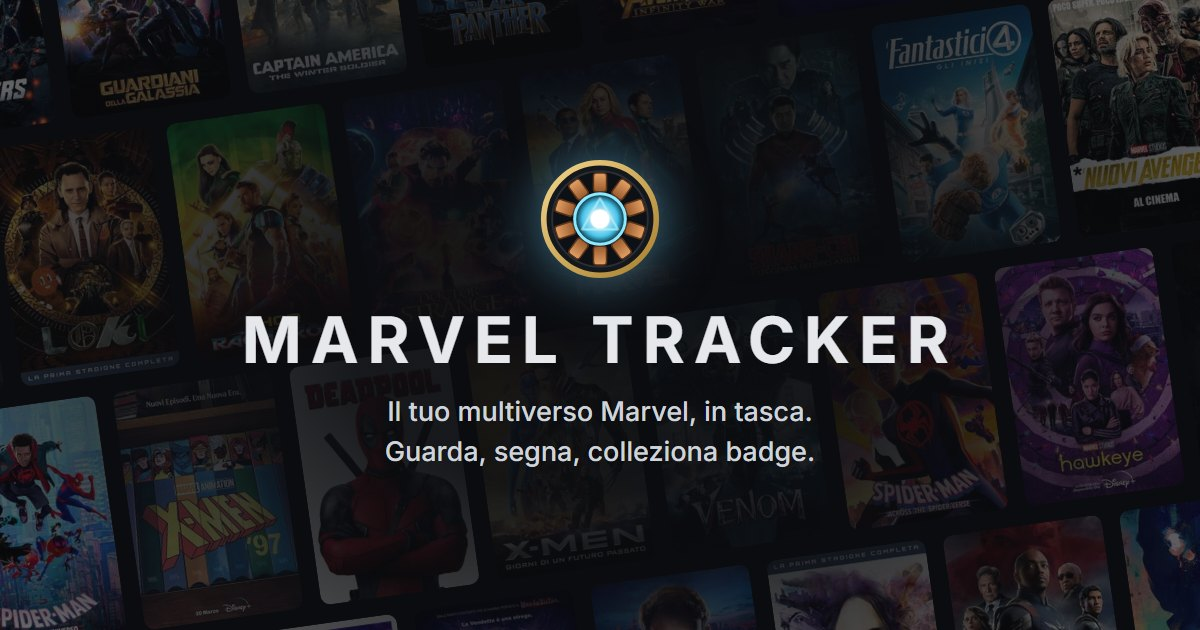
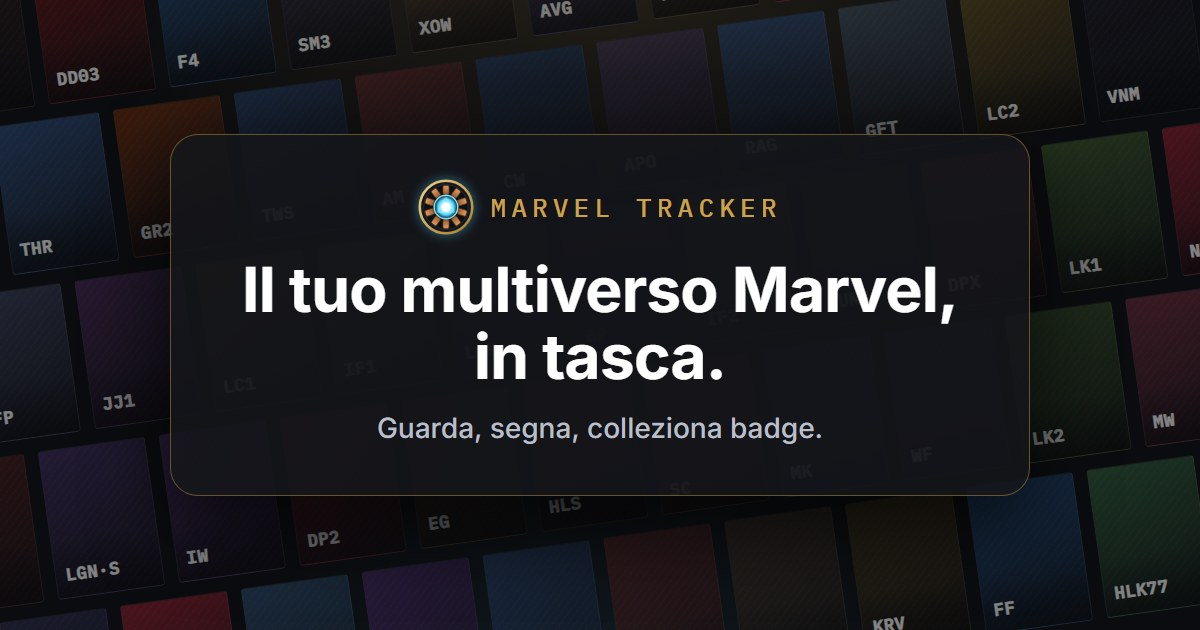
Anteprima del link senza locandine TMDB; Privacy: Resend e Cloudflare

diff --git a/src/components/Legal.tsx b/src/components/Legal.tsx
@@ -80,7 +80,7 @@ export function Privacy() {
           </ul>
 
           <h2>Dove sono i dati</h2>
-          <p>Account e database sono ospitati da <b>Supabase</b> (supabase.com), che li tratta per nostro conto. Il sito è pubblicato su <b>GitHub Pages</b>, che come ogni server registra l'indirizzo IP di chi visita. I caratteri del sito sono inclusi nell'app (il browser non contatta Google). Le <b>locandine</b> si caricano dal server di <b>TMDB</b> (themoviedb.org): come ogni sito, TMDB vede l'indirizzo IP di chi le scarica, ma non riceve nessun altro dato su di te.</p>
+          <p>Account e database sono ospitati da <b>Supabase</b> (supabase.com), che li tratta per nostro conto. Le email dell'account (conferma e nuova password) partono tramite <b>Resend</b> (resend.com, server in Irlanda), che riceve solo il tuo indirizzo email per consegnarle. Il sito è pubblicato su <b>GitHub Pages</b>, che come ogni server registra l'indirizzo IP di chi visita. Il dominio è gestito da <b>Cloudflare</b>, che inoltra anche i messaggi scritti all'indirizzo di contatto. I caratteri del sito sono inclusi nell'app (il browser non contatta Google). Le <b>locandine</b> si caricano dal server di <b>TMDB</b> (themoviedb.org): come ogni sito, TMDB vede l'indirizzo IP di chi le scarica, ma non riceve nessun altro dato su di te.</p>
 
           <h2>Cookie e memoria del browser</h2>
           <p>Non usiamo cookie di profilazione. Il browser conserva solo dati <b>tecnici</b> necessari: la sessione di accesso, una copia dei tuoi progressi (per usare l'app anche con una connessione lenta), la lingua scelta e, se hai aperto un link di invito, il @tag di chi ti ha invitato. Per questo non serve un banner dei cookie.</p>
@@ -131,7 +131,7 @@ export function Privacy() {
           </ul>
 
           <h2>Where the data is</h2>
-          <p>Accounts and the database are hosted by <b>Supabase</b> (supabase.com), which processes them on our behalf. The site is published on <b>GitHub Pages</b>, which, like any server, logs visitors' IP addresses. The site's fonts are bundled with the app (your browser doesn't contact Google). <b>Posters</b> load from the <b>TMDB</b> server (themoviedb.org): like any website, TMDB sees the IP address of whoever downloads them, but receives no other data about you.</p>
+          <p>Accounts and the database are hosted by <b>Supabase</b> (supabase.com), which processes them on our behalf. Account emails (confirmation and new password) are sent through <b>Resend</b> (resend.com, servers in Ireland), which only receives your email address to deliver them. The site is published on <b>GitHub Pages</b>, which, like any server, logs visitors' IP addresses. The domain is managed by <b>Cloudflare</b>, which also forwards messages sent to the contact address. The site's fonts are bundled with the app (your browser doesn't contact Google). <b>Posters</b> load from the <b>TMDB</b> server (themoviedb.org): like any website, TMDB sees the IP address of whoever downloads them, but receives no other data about you.</p>
 
           <h2>Cookies and browser storage</h2>
           <p>We don't use profiling cookies. Your browser only keeps <b>technical</b> data that's needed: the login session, a copy of your progress (so the app works on slow connections), your language and, if you opened an invite link, the @tag of who invited you. That's why there's no cookie banner.</p>

diff --git a/README.md b/README.md
@@ -30,7 +30,7 @@ Web app personale per seguire tutto l'universo Marvel: film e serie MCU, film Fo
 | **Guida di benvenuto** | Al primo accesso una finestra con 3 schede (scegli universo e ordine · segna e vota · amici e badge), sfogliabili con Avanti/Indietro, i pallini o le frecce; «Salta» o Esc la chiudono. Non riappare (il profilo ricorda `introDone`, su tutti i dispositivi); nel Profilo «Rivedi la guida» la riapre. In [src/components/Welcome.tsx](src/components/Welcome.tsx) |
 | **Titolo preferito** | In «Modifica profilo» si sceglie con una ricerca (titolo italiano o originale) oppure aprendo gli universi a tendina, con le locandine: [src/components/TitlePicker.tsx](src/components/TitlePicker.tsx) |
 | **Tema chiaro / scuro** | Pulsante sole/luna accanto a IT/EN (barra in alto, pagina di accesso, Privacy) per passare al volo da scuro a chiaro; nel **Profilo → Preferenze di visione** la scelta completa: Automatico (segue il telefono o il PC), Chiaro, Scuro. Vale per il dispositivo ed è salvata nel browser. Le miniature e le porte degli universi restano scure anche nel tema chiaro (sono "locandine"). Logica in [src/theme.ts](src/theme.ts), colori come variabili CSS in `:root` e `:root[data-theme="light"]` di [src/styles.css](src/styles.css) |
-| **Anteprima dei link** | Quando si condivide l'indirizzo del sito (WhatsApp, Telegram, social) compare un'immagine (muro di locandine scurito con il logo e la frase «Il tuo multiverso Marvel, in tasca») e una descrizione: tag `og:` in [index.html](index.html), immagine in `public/og.jpg` (1200×630). È l'unica immagine con locandine salvata nel sito: va rifatta se cambiano le locandine |
+| **Anteprima dei link** | Quando si condivide l'indirizzo del sito (WhatsApp, Telegram, social) compare un'immagine (muro inclinato delle copertine colorate dell'app, con le sigle dei titoli, e al centro il riquadro con logo e frase «Il tuo multiverso Marvel, in tasca») e una descrizione: tag `og:` in [index.html](index.html), immagine in `public/og.jpg` (1200×630). Non contiene locandine di TMDB (nel sito non ne salviamo nessuna) |
 | **Account** | Accesso **obbligatorio** con email e password (Supabase). Chiunque può registrarsi; ognuno vede solo i propri dati. C'è «Password dimenticata?» con link via email. Dietro il riquadro di accesso scorre piano un **muro di locandine** inclinato (fermo se il sistema chiede meno animazioni), coperto da un velo del colore del tema: elenco dei titoli in `WALL_ROWS` in [src/components/Auth.tsx](src/components/Auth.tsx) |
 | **Salvataggio** | Automatico **nell'account**: i dati ti seguono su telefono e PC. Una copia resta nel browser, così se manca la connessione non si perde niente (viene inviata appena torna). L'anello intorno all'avatar in alto mostra lo stato: grigio = salvato, oro = salvataggio, rosso = non salvato. Backup (nel Profilo) esportabile/importabile in `.json`, profilo compreso |
 | **Lingue** | Italiano e inglese. La lingua resta **per dispositivo** (non va nell'account); la prima volta si usa quella del browser |
